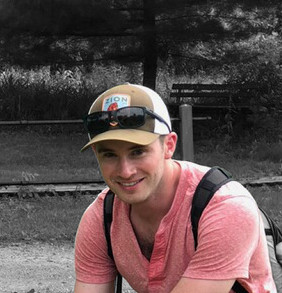
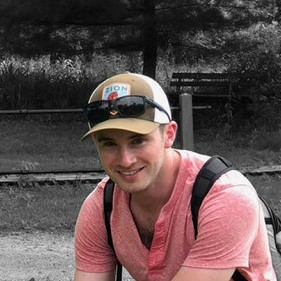
Team page: Map and additional deets

diff --git a/src/app/team-page/team-page.component.ts b/src/app/team-page/team-page.component.ts
@@ -9,6 +9,13 @@ export class TeamPageComponent implements OnInit {
 
   public players: any[] = [
     {
+      name: "Will Stewart",
+      title: "Founding Teacher",
+      photo: "/assets/images/promo/headshot-will.jpg",
+      emoji: ":sauropod:",
+      book: "How Do Dinosaurs Say Goodnight?"
+    },
+    {
       name: "Corbin Fonville",
       title: "CEO",
       photo: "/assets/images/promo/headshot-corbin.jpg",
@@ -21,13 +28,6 @@ export class TeamPageComponent implements OnInit {
       photo: "/assets/images/promo/headshot-brennen.jpg",
       emoji: ":rocket:",
       book: "Hitchiker's Guide to the Galaxy"
-    },
-    {
-      name: "Cynder",
-      title: "Branch Manager",
-      photo: "/assets/images/promo/headshot-cynder.jpg",
-      emoji: ":tennis:",
-      book: "Clifford the Big Red Dog"
     },
     {
       name: "Josh Kyburz",
@@ -44,18 +44,18 @@ export class TeamPageComponent implements OnInit {
       book: "Ready Player One"
     },
     {
-      name: "Kelvin Stewart",
-      title: "Assistant to the Branch Manager",
-      photo: "/assets/images/promo/headshot-kelvin.jpg",
-      emoji: ":feet:",
-      book: ""
+      name: "Cynder Hicklin-Pumper",
+      title: "Branch Manager",
+      photo: "/assets/images/promo/headshot-cynder.jpg",
+      emoji: ":tennis:",
+      book: "Clifford the Big Red Dog"
     },
     {
-      name: "Will Stewart",
-      title: "Founding Teacher",
-      photo: "/assets/images/promo/headshot-will.jpg",
-      emoji: ":sauropod:",
-      book: ""
+      name: "Kelvin Stewart",
+      title: "Head of Security",
+      photo: "/assets/images/promo/headshot-kelvin.jpg",
+      emoji: ":feet:",
+      book: "Squirrel Hunting Made Simple"
     }
   ]
 

diff --git a/src/app/team-page/team-page.component.scss b/src/app/team-page/team-page.component.scss
@@ -25,6 +25,7 @@
 .emoji_wrap {
     display: inline-block;
     margin-right: 0.25em;
+    margin-left: -15px;
 }
 
 .player-card {
@@ -32,12 +33,10 @@
 }
 
 .player-card {
-    $playerBottomPad: 55px;
     $playerBg: #fff;
 
     font-size: 14px;
     color: rgba(0,0,0,0.8);
-    padding-bottom: $playerBottomPad;
     background: $playerBg;
     border-color: #fff;
 
@@ -47,18 +46,20 @@
         font-weight: 500;
     }
 
-    & .card-img-overlay {
-        padding: 10px;
-        height: 100%;
-        transform: translateY(calc(100% - #{ $playerBottomPad }));
-        background: rgba($playerBg,0);
-        transition: all ease 400ms;
+    & .card-block {
+        padding-left: 15px;
+        padding-right: 10px;
     }
-    
-    &:hover, &:focus {
-        & .card-img-overlay {
-            transform: translateY(calc(70% - #{ $playerBottomPad }));
-            background: rgba($playerBg,0.8);
-        }
-    }
+}
+
+.map-fill {
+    position:absolute; 
+    top:-20px; 
+    left:0px; 
+    min-width: 100%; 
+    height: auto;
+}
+
+.card.navy {
+    border-color: #fafafa;
 }
